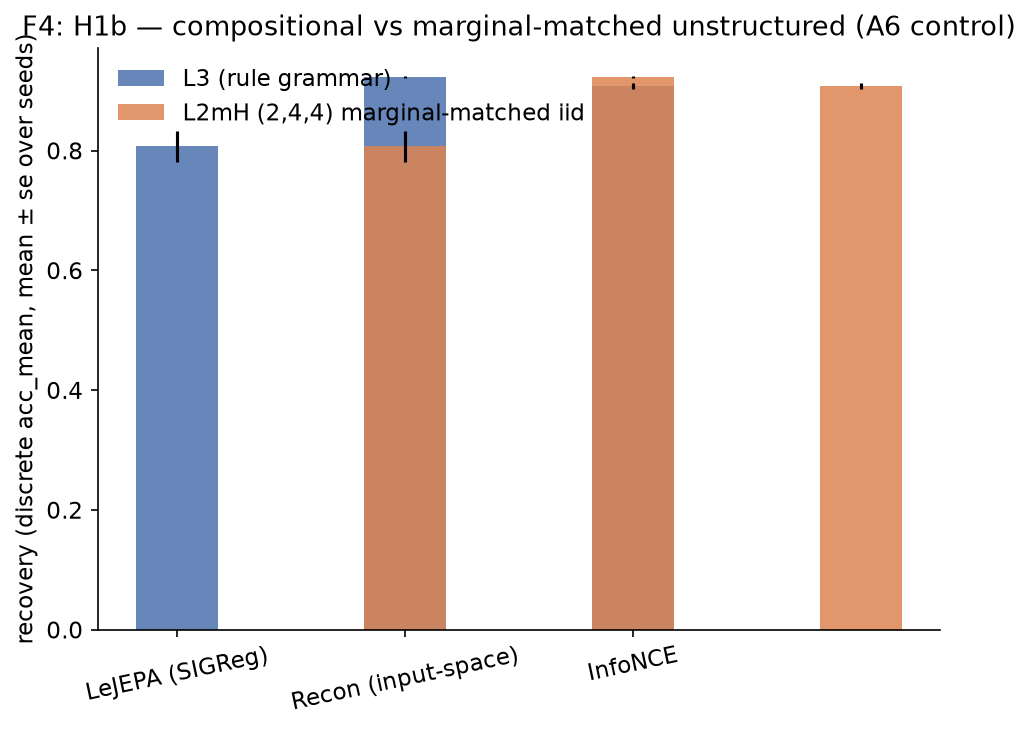
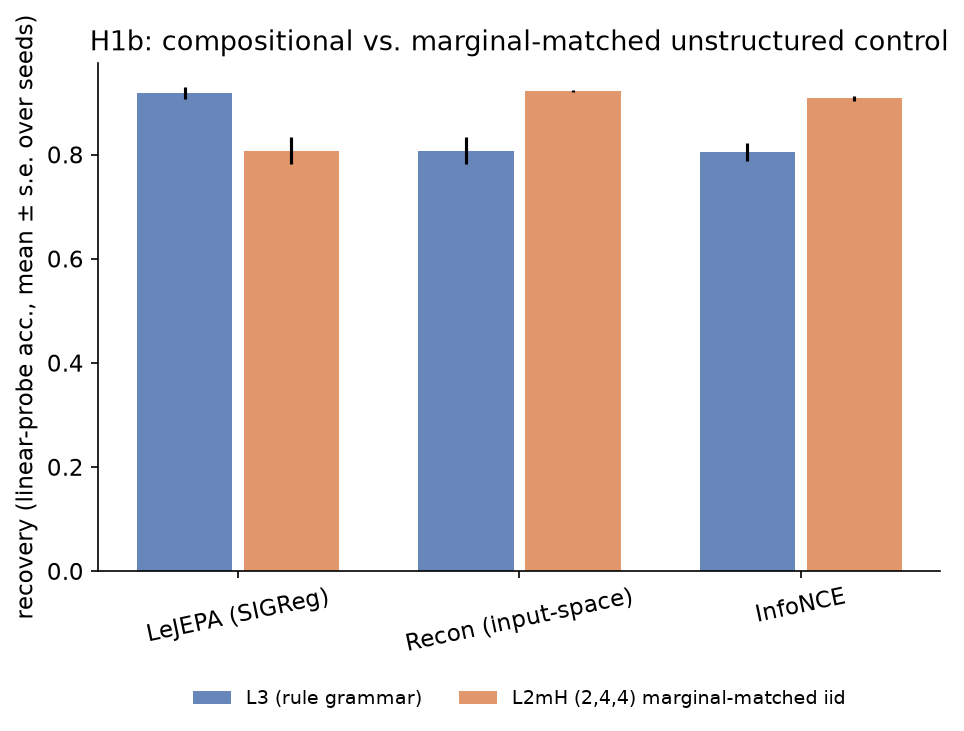
Professionalism pass (user-directed): protocol cited in prose with repo footnote (raw .md filename out of body text); hyperref colorlinks (was red-box default); SHA-256 wording; 'TDD suite' -> 'automated test suite'; drop internal author-profile sentence; F4 legend moved outside axes + bar-pair gaps

diff --git a/paper/main.tex b/paper/main.tex
@@ -7,9 +7,10 @@
 \usepackage{amsmath,amssymb,amsthm}
 \usepackage{booktabs}
 \usepackage{graphicx}
-\usepackage{hyperref}
-\usepackage[numbers,sort&compress]{natbib}
 \usepackage{xcolor}
+\definecolor{linknavy}{RGB}{30,60,120}
+\usepackage[colorlinks=true, linkcolor=linknavy, citecolor=linknavy, urlcolor=linknavy]{hyperref}
+\usepackage[numbers,sort&compress]{natbib}
 \usepackage{enumitem}
 \definecolor{note}{RGB}{150,80,0}
 \newcommand{\honest}[1]{\textcolor{note}{[honest: #1]}}
@@ -167,8 +168,13 @@ regime with known ground truth.
 
 \section{Protocol and pre-registration}
 \label{sec:protocol}
-The protocol \texttt{pre\_registration\_2026-09-06.md} was frozen before any
-grid run (hash-pinned) and extended only by append-only amendments A1--A6:
+The protocol was frozen before any
+grid run (SHA-256 hash recorded in the repository) and extended only by
+append-only amendments A1--A6:\footnote{The frozen pre-registration document
+and its amendment log are in the public repository,
+\url{https://github.com/oguzcura/jepa-identifiability-boundary}
+(\texttt{pre\_registration\_2026-09-06.md} and the amendment appendix
+therein).}
 A1 (technical clarifications), A2 (nonlinear mixing, dim 8, recon as
 one-hot-MSE control), A3 (spiral mixing + SIGReg $\lambda{=}10$; official gate
 config), A4 (withdrawal of the invalid L3-v1 world; L3/L4 v2 redesign;
@@ -186,7 +192,7 @@ shows the third condition held.
 
 \section{World ladder and instruments}
 \label{sec:worlds}
-\begin{table}[h]\centering\small
+\begin{table}[ht]\centering\small
 \begin{tabular}{@{}llll@{}}
 \toprule
 Level & Generator & Discreteness control & Ground truth $z$ \\
@@ -236,7 +242,7 @@ latent prediction with SIGReg sketched-Gaussian regularization
 $\tau{=}0.3$ (A3), the non-Gaussian-pressured alignment objective;
 \item \textbf{Input-space reconstruction} (\texttt{recon}) --- autoencoder
 control (no latent objective at all);
-\item \textbf{VICReg} (\texttt{vicreg}, A5) --- variance--invariance--
+\item \textbf{VICReg} (\texttt{vicreg}; introduced in amendment~A5) --- variance--invariance--
 covariance ($25/25/1$, Bardes-style), the theorem's third Fig-4b objective.
 \end{itemize}
 
@@ -263,7 +269,7 @@ toward the uniform extreme ($0.609$ at $\alpha{=}32$). InfoNCE rises to a broad 
 lies at the uniform extreme, so the $\alpha{=}2$ maximum is specific to the
 SIGReg objective. This reproduces Fig.~4b with the theorem's own objective
 (Fig.~\ref{fig:gate}).
-\begin{figure}[h]\centering
+\begin{figure}[ht]\centering
 \includegraphics[width=0.85\linewidth]{../figures/F1_l0_fig4b.png}
 \caption{L0 $\alpha$-sweep, ridge $R^2$ vs.\ gennorm shape. LeJEPA/SIGReg
 peaks at the Gaussian shape ($\alpha{=}2$, $0.851$) and decays toward uniform;
@@ -306,7 +312,7 @@ correct same-metric comparison --- L2's categorical accuracy against L2t's
 accuracy at recovering its own equiprobable $S$ bins ($z_K$) --- the gap
 collapses (Table~\ref{tab:h1a}):
 
-\begin{table}[h]\centering\small
+\begin{table}[ht]\centering\small
 \begin{tabular}{@{}llrrrrrr@{}}
 \toprule
  & & \multicolumn{2}{c}{$S{=}3$} & \multicolumn{2}{c}{$S{=}5$} & \multicolumn{2}{c}{$S{=}10$} \\
@@ -357,7 +363,7 @@ than L3, biasing \emph{against} our claim). Stage 7 ran 30 fresh cells
 stage-4 L3 rows at identical hyperparameters (Table~\ref{tab:h1b},
 Fig.~\ref{fig:h1b}).
 
-\begin{table}[h]\centering\small
+\begin{table}[ht]\centering\small
 \begin{tabular}{@{}lcccc@{}}
 \toprule
  & & \multicolumn{3}{c}{control} \\
@@ -380,7 +386,7 @@ is our most reliable positive finding.}}
 \label{tab:h1b}
 \end{table}
 
-\begin{figure}[h]\centering
+\begin{figure}[ht]\centering
 \includegraphics[width=0.72\linewidth]{../figures/F4_l3_vs_l2m.png}
 \caption{H1b across objectives, post-A6 control. LeJEPA recovers the rule
 grammar (L3) better than the marginal-matched unstructured control (L2mH,
@@ -504,7 +510,8 @@ audits as amendments --- is, we hope, a contribution to how self-supervised
 identifiability gets measured as it moves beyond Gaussians.
 
 \section*{Reproducibility and ethics}
-Code, seeds, and world pins in the repository (TDD suite green: 80 passed);
+Code, seeds, and world pins in the repository; an automated test suite
+(80 checks) passes;
 raw sweep JSONL is retained locally (gitignored) and every committed analysis
 re-runs from \texttt{repro/} against it; pre-registration frozen with
 append-only A1--A6;
@@ -512,9 +519,7 @@ deterministic-seed cells only; zero financial cost (local RTX~4070, 8~GB);
 AI-assisted workflow (experiment design, analysis code, and writing assistance
 with LLM tooling) disclosed per the ethics convention; the author performed
 and bears responsibility for the experimental design, pre-registration, and
-all decisions recorded in amendments. Author line per author-profile rules
-(real name, independent-researcher affiliation, reachable email, GitHub
-handle). The Lean-4 verifications cited from \citet{klindt2026lejepa} are the
+all decisions recorded in amendments. The Lean-4 verifications cited from \citet{klindt2026lejepa} are the
 authors' claims and were not independently re-verified here.
 
 \bibliographystyle{plainnat}

diff --git a/repro/figures.py b/repro/figures.py
@@ -195,26 +195,30 @@ def f4(rows: list[dict], out: Path = FIG / "F4_l3_vs_l2m.png") -> Path:
               if any(r.get("model") == mo for r in l3)
               and any(r.get("model") == mo for r in l2m)]
     xpos = np.arange(len(models))
-    width = 0.36
-    for offset, (arm, col, lab) in enumerate(((-width / 2, "#4c72b0", "L3 (rule grammar)"),
-                                              (width / 2, "#dd8452", "L2mH (2,4,4) marginal-matched iid"))):
+    width = 0.34
+    # NOTE: do NOT unpack offsets via enumerate(...) — the index would shadow
+    # the intended ±offset and (worse) the series-selection test below can
+    # never see the label string. Explicit tuples, selected by key:
+    for off, key, col, lab in ((-0.19, "l3", "#4c72b0", "L3 (rule grammar)"),
+                               (0.19, "ctl", "#dd8452", "L2mH (2,4,4) marginal-matched iid")):
         means, errs = [], []
+        src = l3 if key == "l3" else l2m
         for model in models:
-            vals_a = np.array([r["metrics"]["linear_probe_acc_mean"] for r in l3
-                               if r.get("model") == model])
-            vals_b = np.array([r["metrics"]["linear_probe_acc_mean"] for r in l2m
-                               if r.get("model") == model])
-            vals = vals_a if arm == "L3 (rule grammar)" else vals_b
+            vals = np.array([r["metrics"]["linear_probe_acc_mean"] for r in src
+                             if r.get("model") == model])
             means.append(vals.mean())
             errs.append(vals.std() / np.sqrt(len(vals)))
-        ax.bar(xpos + offset, means, width, yerr=errs, color=col, label=lab, alpha=0.85)
+        ax.bar(xpos + off, means, width, yerr=errs, color=col, label=lab, alpha=0.85)
     ax.set_xticks(xpos)
     ax.set_xticklabels([MODEL_STYLE[m]["label"] for m in models], rotation=12)
-    ax.set_ylabel("recovery (discrete acc_mean, mean ± se over seeds)")
-    ax.set_title("F4: H1b — compositional vs marginal-matched unstructured (A6 control)")
-    ax.legend(frameon=False)
+    ax.set_ylabel("recovery (linear-probe acc., mean $\\pm$ s.e. over seeds)")
+    ax.set_title("H1b: compositional vs. marginal-matched unstructured control")
+    # Legend fully outside the axes (below the x-labels): entries can never
+    # overlap the bars regardless of bar heights.
+    ax.legend(frameon=False, loc="upper center", bbox_to_anchor=(0.5, -0.20),
+              ncols=2, fontsize=9)
     fig.tight_layout()
-    fig.savefig(out); plt.close(fig)
+    fig.savefig(out, bbox_inches="tight"); plt.close(fig)
     print(f"F4 written: {out}")
     return out
 

diff --git a/HANDOFF.md b/HANDOFF.md
@@ -199,6 +199,28 @@ Residual (low severity, judgment calls — not fixed):
   (0.456 vs 0.527 same-metric), though not significantly — the null framing
   is correct, but a reviewer may probe this cell.
 
+## 11. Professionalism/polish pass (2026-09-09, user-directed)
+
+- Removed raw-filename leak from §3: protocol now cited as "the protocol"
+  with a footnote URL to the repo (file name kept only inside the footnote).
+- hyperref configured colorlinks (navy) — was red-box default (amateur tell).
+- "(hash-pinned)" → "SHA-256 hash recorded in the repository".
+- Reproducibility: "TDD suite green" → "automated test suite (80 checks)";
+  deleted internal "Author line per author-profile rules" sentence.
+- VICReg "(vicreg, A5)" → "(vicreg; introduced in amendment A5)".
+- F4 figure: legend moved fully outside (below axes), title de-coded
+  ("F4: H1b —" prefix dropped), pairs given a gap (±0.19 offset, width 0.34),
+  axis label cleaned.
+- **F4 DATA bug (found via pixel-scan during the layout check): the bar loop
+  unpacked offsets with enumerate(...), so the offset index shadowed the
+  intended ±positions AND the series-selection string test could never match
+  — both bars plotted the CONTROL arm (L2mH) values, one shifted left as
+  "blue". The figure therefore contradicted Table 3 (it showed L3 > control
+  for recon, not LeJEPA). Fixed (explicit (off, key, col, lab) tuples);
+  pixel-verified: blue > orange only for LeJEPA, matching the table.
+- All float specifiers [h]→[ht]; build now 0 LaTeX warnings (tectonic).
+- Release asset main.pdf re-uploaded post-fix (same tag, --clobber).
+
 **Quick resume commands:**
 ```bash
 cd /c/Users/oguzc/research/jepa-identifiability-boundary
